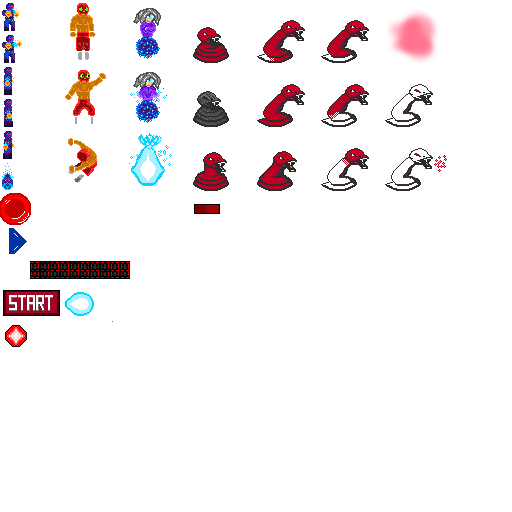
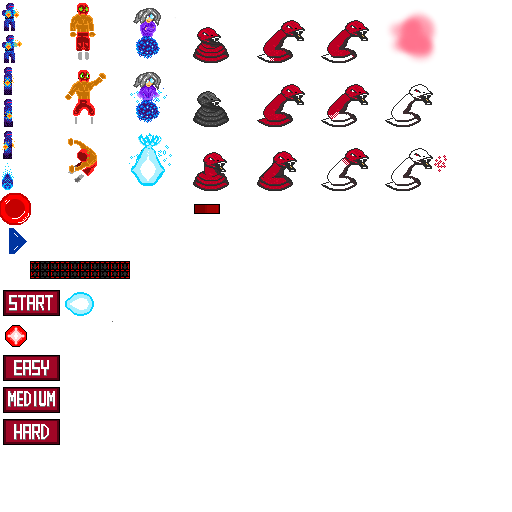
Se muestra el menu de dificultades disponibles en la pantalla principal. Son botones que encienden cuando se selecciona la dificultad. Esta pendiente el listener de cada boton.

Changed region(s): [[0.0, 0.6875, 0.125, 0.875]]

diff --git a/app/src/main/java/com/jgame/game/GameRenderer.java b/app/src/main/java/com/jgame/game/GameRenderer.java
@@ -4,6 +4,7 @@ import android.graphics.Bitmap;
 import android.graphics.BitmapFactory;
 import android.opengl.GLSurfaceView.Renderer;
 import android.opengl.GLUtils;
+import android.util.Log;
 
 import com.jgame.elements.GameCharacter;
 import com.jgame.elements.CollisionObject;
@@ -19,6 +20,7 @@ import javax.microedition.khronos.egl.EGLConfig;
 import javax.microedition.khronos.opengles.GL10;
 import com.jgame.util.Decoration;
 import com.jgame.util.Vector2;
+import com.jgame.game.GameActivity.Difficulty;
 
 public class GameRenderer implements Renderer {
 
@@ -40,7 +42,9 @@ public class GameRenderer implements Renderer {
     public final static TextureData LEFT_ARROW_TEXTURE = new TextureData(0.0625f,0.5f,0,0.4375f);
     public final static TextureData SOUND_SWITCH_ON_TEXTURE = new TextureData(0.375f,0.375f,0.4375f,0.4375f);
     public final static TextureData SOUND_SWITCH_OFF_TEXTURE = new TextureData(0.4375f,0.4375f,0.375f,0.375f);
-    public final static TextureData LED_SPRITE = new TextureData(0f,0.625f,0.0625f,0.6875f);
+    public final static TextureData EASY_SPRITE = new TextureData(0f,0.6875f,0.125f,0.75f);
+    public final static TextureData MEDIUM_SPRITE = new TextureData(0f,0.75f,0.125f,0.8125f);
+    public final static TextureData HARD_SPRITE = new TextureData(0f,0.8125f,0.125f,0.875f);
     public final static TextureData BACKGROUND_TEXTURE = new TextureData(0,0,1,0.247f);
     public final static TextureData LEVEL_2_BACKGROUND = new TextureData(0, 0.2478f, 1, 0.4956f);
     public final static TextureData LEVEL_3_BACKGROUND = new TextureData(0, 0.499f, 1, 0.7449f);
@@ -60,6 +64,7 @@ public class GameRenderer implements Renderer {
     public static final Square BACKGROUND_CONTAINER = new Square(new Vector2(), GameActivity.PLAYING_WIDTH, GameActivity.PLAYING_HEIGHT - GameActivity.CONTROLS_HEIGHT, 0);
     private static final DigitsDisplay CURRENT_SCORE = new DigitsDisplay(SCORE_SIZE_X, SCORE_SIZE_Y, 5, new Vector2(250,35));
     private static final ColorData PAUSE_MENU_COLOR = new ColorData(0,1,0,1);
+    private static final ColorData TRANSPARENCY_COLOR = new ColorData(1,1,1,0.65f);
     private GameSurfaceView surfaceView;
     private GameActivity gameActivity;
     private Vector2 backgroundPosition;
@@ -115,7 +120,7 @@ public class GameRenderer implements Renderer {
         }
 
         if(gameData.state == GameState.MENU)
-            drawMenu();
+            drawMenu(gameData.currentDifficulty);
         else {
 
             boolean characterAlive = gameActivity.mainCharacter.alive();
@@ -226,7 +231,7 @@ public class GameRenderer implements Renderer {
             drawer.addTexturedSquare(c.spriteContainer, c.getCurrentTexture());
     }
 
-    private void drawMenu(){
+    private void drawMenu(Difficulty currentDifficulty){
         gl10.glViewport(0, 0, surfaceView.getWidth(), surfaceView.getHeight());
         gl10.glClear(GL10.GL_COLOR_BUFFER_BIT);
         gl10.glMatrixMode(GL10.GL_PROJECTION);
@@ -257,7 +262,20 @@ public class GameRenderer implements Renderer {
             mainTextureDrawer.addTexturedSquare(SOUND_SWITCH_SPRITE, SOUND_SWITCH_OFF_TEXTURE);
         }
 
-        mainTextureDrawer.addTexturedSquare(GameActivity.EASY_DIFFICULTY_BOUNDS, LED_SPRITE);
+        //Dibuja los botones que representan la dificultad. Esto se puede mejorar, se ve horrible
+        if(currentDifficulty == Difficulty.EASY) {
+            mainTextureDrawer.addTexturedSquare(GameActivity.EASY_DIFF_BOUNDS, EASY_SPRITE);
+            mainTextureDrawer.addColoredSquare(GameActivity.MEDIUM_DIFF_BOUNDS, MEDIUM_SPRITE, TRANSPARENCY_COLOR);
+            mainTextureDrawer.addColoredSquare(GameActivity.HARD_DIFF_BOUNDS, HARD_SPRITE, TRANSPARENCY_COLOR);
+        } else if(currentDifficulty == Difficulty.MEDIUM){
+            mainTextureDrawer.addColoredSquare(GameActivity.EASY_DIFF_BOUNDS, EASY_SPRITE, TRANSPARENCY_COLOR);
+            mainTextureDrawer.addTexturedSquare(GameActivity.MEDIUM_DIFF_BOUNDS, MEDIUM_SPRITE);
+            mainTextureDrawer.addColoredSquare(GameActivity.HARD_DIFF_BOUNDS, HARD_SPRITE, TRANSPARENCY_COLOR);
+        } else {
+            mainTextureDrawer.addColoredSquare(GameActivity.EASY_DIFF_BOUNDS, EASY_SPRITE, TRANSPARENCY_COLOR);
+            mainTextureDrawer.addColoredSquare(GameActivity.MEDIUM_DIFF_BOUNDS, MEDIUM_SPRITE, TRANSPARENCY_COLOR);
+            mainTextureDrawer.addTexturedSquare(GameActivity.HARD_DIFF_BOUNDS, HARD_SPRITE);
+        }
 
         if(gameData.paused) {
             mainTextureDrawer.addColoredSquare(PAUSE_LAYER, NO_TEXTURE_COORDS, pauseOverlay);

diff --git a/app/src/main/java/com/jgame/game/GameActivity.java b/app/src/main/java/com/jgame/game/GameActivity.java
@@ -204,7 +204,6 @@ public class GameActivity extends Activity {
     public static final int TELEPORT_SPRITE_LENGTH = 115;
     public static final int TELEPORT_SPRITE_HEIGHT = 145;
     public static final int CHARGING_SPRITE_LENGTH = 115;
-    public static final Square EASY_DIFFICULTY_BOUNDS = new Square(10, 10, 20, 20);
     public static final Square INPUT_SOUND_SPRITE = new Square(PLAYING_WIDTH - 100, PLAYING_HEIGHT - 100, INPUT_SOUND_WIDTH, INPUT_SOUND_WIDTH);
     public static final Square INPUT_SOUND_BOUNDS = new Square(PLAYING_WIDTH - 100, PLAYING_HEIGHT - 130, INPUT_SOUND_WIDTH, INPUT_SOUND_WIDTH + 40);
     public static final Square INPUT_LEFT_BOUNDS = new Square(20,INPUTS_HEIGHT, DIRECTION_WIDTH, DIRECTION_WIDTH);
@@ -216,6 +215,9 @@ public class GameActivity extends Activity {
     public static final Square RESTART_BOUNDS = new Square(FRUSTUM_WIDTH / 2 - 100, FRUSTUM_HEIGHT/2 + 10, 200, 50);
     public static final Square START_BUTTON_BOUNDS = new Square(FRUSTUM_WIDTH/2 - 100, FRUSTUM_HEIGHT - 160, 200, 100);
     public static final Square SOUND_SWITCH = new Square(160, 40, 150, 40);
+    public static final Square EASY_DIFF_BOUNDS = new Square(35, FRUSTUM_HEIGHT - 90, 80, 40);
+    public static final Square MEDIUM_DIFF_BOUNDS = new Square(35, FRUSTUM_HEIGHT - 140, 80, 40);
+    public static final Square HARD_DIFF_BOUNDS = new Square(35, FRUSTUM_HEIGHT - 190, 80, 40);
     public static final String HIGH_SCORE = "highScore";
     public static int ID_PUNCH;
     private GLSurfaceView gameSurfaceView;

diff --git a/app/src/main/java/com/jgame/game/GameData.java b/app/src/main/java/com/jgame/game/GameData.java
@@ -21,7 +21,7 @@ public class GameData {
     public boolean soundEnabled;
     public GameState state;
     public boolean paused;
-    public GameActivity.Difficulty currentDifficulty;
+    public GameActivity.Difficulty currentDifficulty = GameActivity.Difficulty.EASY;
     public Vector2 backgroundModifier = new Vector2();
 
     public void copy(GameData other){
